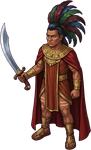
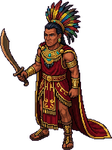
Title of Liberty: Zerahemnah and Helaman from Gemini in Antigravity
Gemini in Antigravity drew its own set of round 6 once its image allowance
refreshed. Judged at game size against the n8n set, figure by figure:

- Zerahemnah: Antigravity's (bright feather crest, gold, red cloak) stands out
  as the leader; the n8n one looked muddy and close to the robber chief.
- Helaman: Antigravity's is a bearded grown man, plainly older than his
  stripling warriors. Mirrored to face left like every unit.
- Slinger and captain: the n8n ones stay. They match the warrior's look, and
  Antigravity's paler slinger read more like a robber.

Zerahemnah's draw box is re-measured between his sandals, since his cloak
trails behind him.

Claude-Session: https://claude.ai/code/session_01Q4ES8mgC6R6KD4i9kHrmBw

diff --git a/liberty/ui.js b/liberty/ui.js
@@ -51,7 +51,7 @@ IMG.lehi.src = 'assets/lehi.png?v=1';            // and these: 005-heroes.md
 IMG.gidgiddoni.src = 'assets/gidgiddoni.png?v=1';
 IMG.lamanSlinger.src = 'assets/lamanite_slinger.png?v=1';   // and these: 006-lamanites.md
 IMG.lamanCaptain.src = 'assets/lamanite_captain.png?v=1';
-IMG.zerahemnah.src = 'assets/zerahemnah.png?v=1';
+IMG.zerahemnah.src = 'assets/zerahemnah.png?v=2';
 IMG.stripling.src = 'assets/stripling.png?v=13';
 IMG.lamanite.src = 'assets/lamanite.png?v=13';
 IMG.cart.src = 'assets/cart.png?v=13';
@@ -1062,7 +1062,7 @@ IMG.farm.src = 'assets/farm.png?v=13';
       uw = 26; uh = 44; uox = 17; uoy = 43;
     } else if (u.type === 'zerahemnah') {
       uImg = IMG.zerahemnah;
-      uw = 29; uh = 48; uox = 20; uoy = 47;
+      uw = 36; uh = 48; uox = 17; uoy = 47;
     } else if (u.type === 'lamanite' || d.foe) {
       uImg = IMG.lamanite;
       uw = 41; uh = 44; uox = 19; uoy = 43;

diff --git a/liberty/art/requests/006-lamanites.md b/liberty/art/requests/006-lamanites.md
@@ -1,10 +1,14 @@
 # 006 · The Lamanites: slinger, captain and Zerahemnah, and Helaman
 
-**Status: done.** All four (pull request #57) were made with Gemini through
-Blake's n8n backup, since Gemini in Antigravity hadn't answered after an
-hour. In the game: `liberty/assets/lamanite_slinger.png` (the Lamanite
-slinger), `lamanite_captain.png` (the Amalekite and Zoramite captains) and
-`zerahemnah.png`. `helaman.png` is ready for the war chapters.
+**Status: done.** Pull request #57 has two sets of all four. The first came
+from Gemini through Blake's n8n backup, while Gemini in Antigravity was out of
+image allowance. The second came from Gemini in Antigravity after its allowance
+refreshed. The game keeps the better picture for each figure:
+
+- `liberty/assets/lamanite_slinger.png` (the slinger) and `lamanite_captain.png`
+  (the Amalekite and Zoramite captains) come from the n8n set.
+- `zerahemnah.png` comes from the Antigravity set.
+- `helaman.png` comes from the Antigravity set. It's ready for the war chapters.
 
 ## What it's for
 
@@ -76,9 +80,27 @@ crest, long red cloak, gold), and all face left.
 
 ## What came back
 
-Four clean pictures, all facing left. The two from `lamanite.png` (slinger,
-captain) came back in its pixel-painted look; Zerahemnah and Helaman in a
-softer painted style. Gemini through n8n sends JPEGs, and Zerahemnah's
-background was a lighter magenta (250, 48, 251), so the cut-out now measures
-each picture's own background before removing it. Each is cropped to the
-figure, scaled to 150 pixels tall and set by its feet.
+Both sets came back with clean magenta backgrounds. All four judged at game
+size (44 and 48 pixels, next to a Lamanite warrior and a robber):
+
+- **Slinger: n8n.** It has the warrior's dark outlines, paint and feathers, and
+  its sling reads clearly. Antigravity's slinger is paler and thinly outlined,
+  so at 44 pixels he looks more like a Gadianton robber than a Lamanite.
+- **Captain: n8n,** narrowly. Both read as dark red and clothed. The n8n one
+  matches the warrior's look, while Antigravity's gave him two cimeters with a
+  long blade sweeping out.
+- **Zerahemnah: Antigravity.** Its many-coloured feather crest, gold collar and
+  armbands, and red cloak with gold trim make the leader stand out at once.
+  It's drawn in the same crisp outlined look as the warrior. The n8n
+  Zerahemnah's dark crest and brownish cloak looked muddy at 48 pixels, too
+  close to the robber chief. It still has no breastplate or shield.
+- **Helaman: Antigravity.** He's a bearded grown man, plainly older than his
+  stripling warriors, in gold armor with a bright green cloak. The n8n Helaman
+  was slim and beardless, too much like a stripling. Antigravity drew him
+  turned toward the viewer's right, so Claude mirrored him to face left.
+
+Gemini through n8n sends JPEGs, and its Zerahemnah background was a lighter
+magenta (250, 48, 251), so the cut-out now measures each picture's own
+background before removing it. Each picture is cropped to the figure, scaled to
+150 pixels tall and set by its feet. Zerahemnah's long cloak trails behind him,
+so his feet are measured between his two sandals, not across the cloak.
